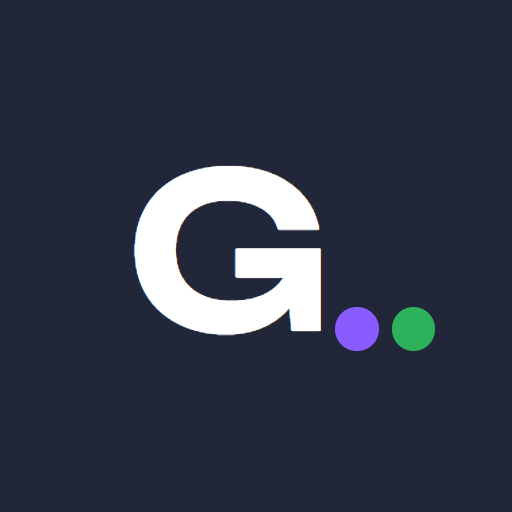
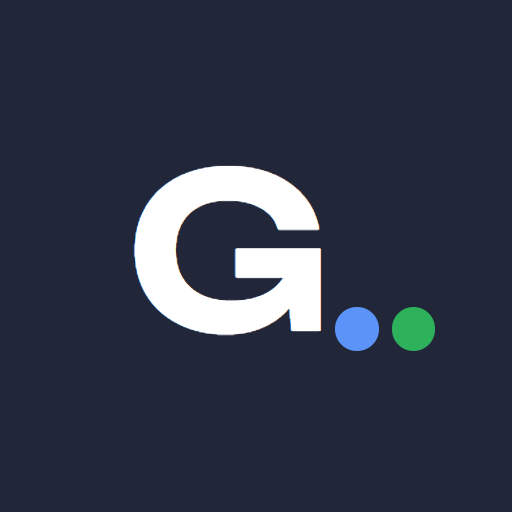
Grid Work: акцент синий #2563EB вместо ультрамарина
Акцент рабочего режима — #2563EB, наведение #1D4ED8, светлые подложки
#EAF1FE: логотип и точка, ползунок, активная вкладка, «Сегодня», кнопки,
подсветка активного проекта и всё, что шло от акцента. Белый текст на
синем — 5,2:1, синий на светлой подложке — 4,6:1. Точка рабочего режима
на иконке приложения — светлый оттенок того же синего (#5B93F8), чтобы
её было видно на тёмном фоне.

Grid Life остаётся зелёным; «Срочно», удаление и ошибки — красными.
Старого цвета не осталось ни в коде, ни на отрисованной странице.

Changed region(s): [[0.6562, 0.5938, 0.75, 0.6875]]

diff --git a/grid.html b/grid.html
@@ -36,10 +36,10 @@
   --line:#E5E8F1;
   --line-2:#D2D7E6;
 
-  /* акцент режима: Grid Work — ультрамарин, Grid Life — зелёный (ниже) */
-  --accent:#6022F5;
-  --accent-hov:#4C16D4;
-  --accent-soft:#EFEAFE;
+  /* акцент режима: Grid Work — синий, Grid Life — зелёный (ниже) */
+  --accent:#2563EB;
+  --accent-hov:#1D4ED8;
+  --accent-soft:#EAF1FE;
   --accent-ink:#FFFFFF;
 
   --p-low:#7B8AAD;    --p-low-soft:#EAEEF7;
@@ -79,9 +79,9 @@
 
 :root[data-mode="life"]{--accent:#167A38;--accent-hov:#12652E;--accent-soft:#E6F4EA}
 /* зарегистрированные цвета плавно перетекают при смене режима */
-@property --accent{syntax:"<color>";inherits:true;initial-value:#6022F5}
-@property --accent-hov{syntax:"<color>";inherits:true;initial-value:#4C16D4}
-@property --accent-soft{syntax:"<color>";inherits:true;initial-value:#EFEAFE}
+@property --accent{syntax:"<color>";inherits:true;initial-value:#2563EB}
+@property --accent-hov{syntax:"<color>";inherits:true;initial-value:#1D4ED8}
+@property --accent-soft{syntax:"<color>";inherits:true;initial-value:#EAF1FE}
 :root{transition:--accent .3s,--accent-hov .3s,--accent-soft .3s}
 :root[data-mode="life"] .work-only,:root[data-mode="work"] .life-only{display:none !important}
 

diff --git a/CLAUDE.md b/CLAUDE.md
@@ -4,4 +4,4 @@ For current-project requests, load the installed SkipHow skill before consequent
 
 ## Проверка интерфейса
 
-Скилл `ui-ux-pro-max` лежит в `.claude/skills/ui-ux-pro-max` и в git не входит. Источник: https://github.com/nextlevelbuilder/ui-ux-pro-max-skill, коммит 076a2b3, папка `.claude/skills/ui-ux-pro-max`. Он нужен только для проверки качества интерфейса. Палитру, логотип и шрифты Grid меняет только владелец: шрифты и стиль логотипа прежние, у режимов свой акцент — Grid Work ультрамарин #6022F5, Grid Life зелёный; смысловые красные (срочно, удаление, ошибки) — не акцент. Если указания скилла расходятся со SkipHow, действует SkipHow.
+Скилл `ui-ux-pro-max` лежит в `.claude/skills/ui-ux-pro-max` и в git не входит. Источник: https://github.com/nextlevelbuilder/ui-ux-pro-max-skill, коммит 076a2b3, папка `.claude/skills/ui-ux-pro-max`. Он нужен только для проверки качества интерфейса. Палитру, логотип и шрифты Grid меняет только владелец: шрифты и стиль логотипа прежние, у режимов свой акцент — Grid Work синий #2563EB, Grid Life зелёный; смысловые красные (срочно, удаление, ошибки) — не акцент. Если указания скилла расходятся со SkipHow, действует SkipHow.

diff --git a/README.md b/README.md
@@ -18,7 +18,7 @@
 ## Что умеет
 
 **Режимы.** Переключатель справа от логотипа меняет режим: «Grid Work»
-(акцент ультрамарин) или «Grid Life» (зелёный). Переключение мгновенное,
+(синий акцент) или «Grid Life» (зелёный). Переключение мгновенное,
 приложение запоминает последний режим на этом устройстве. В Grid Life
 скрыто всё рабочее — проекты, участники, фильтры и вкладки доски.
 Grid Life открывается без входа; Grid Work без входа показывает экран
